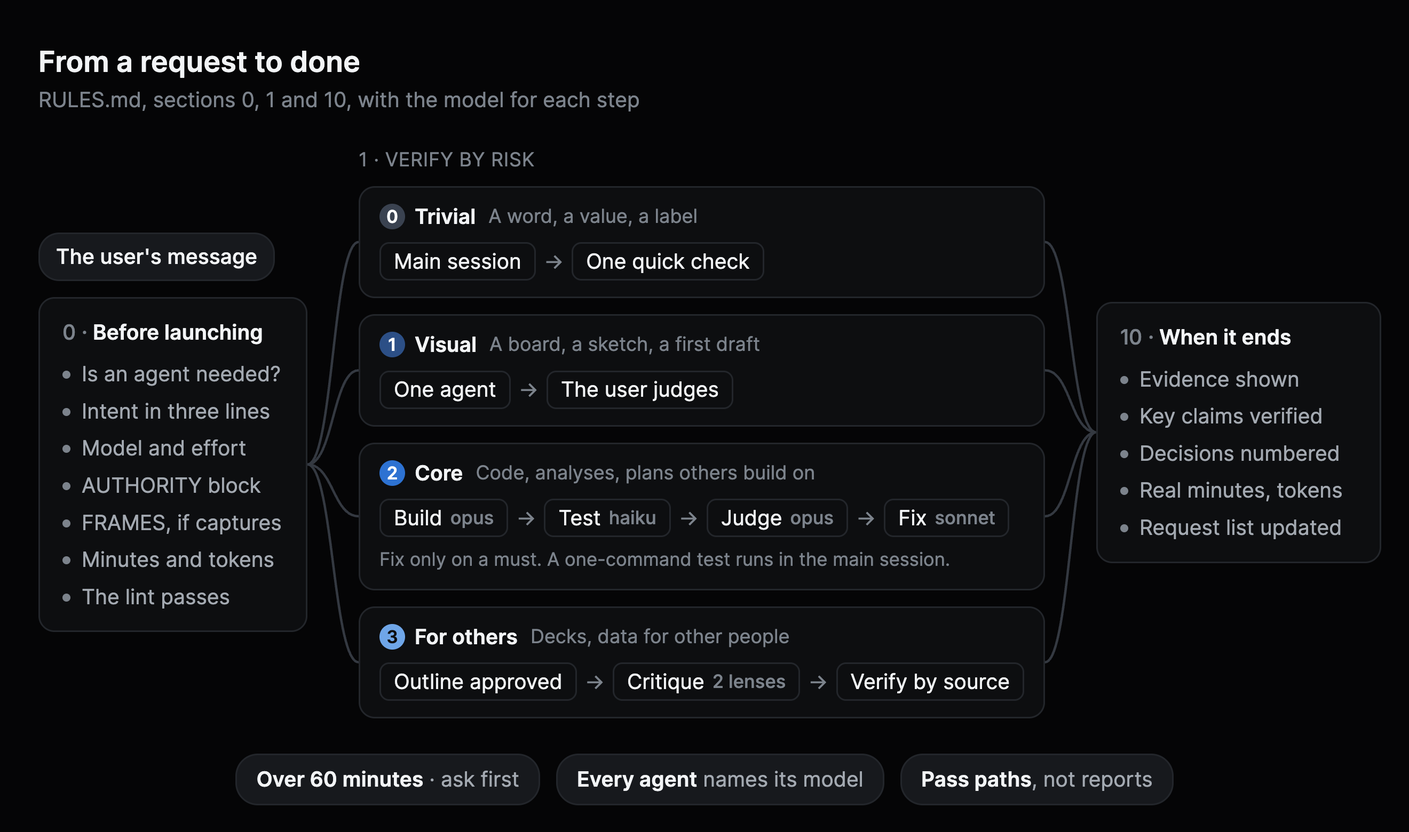
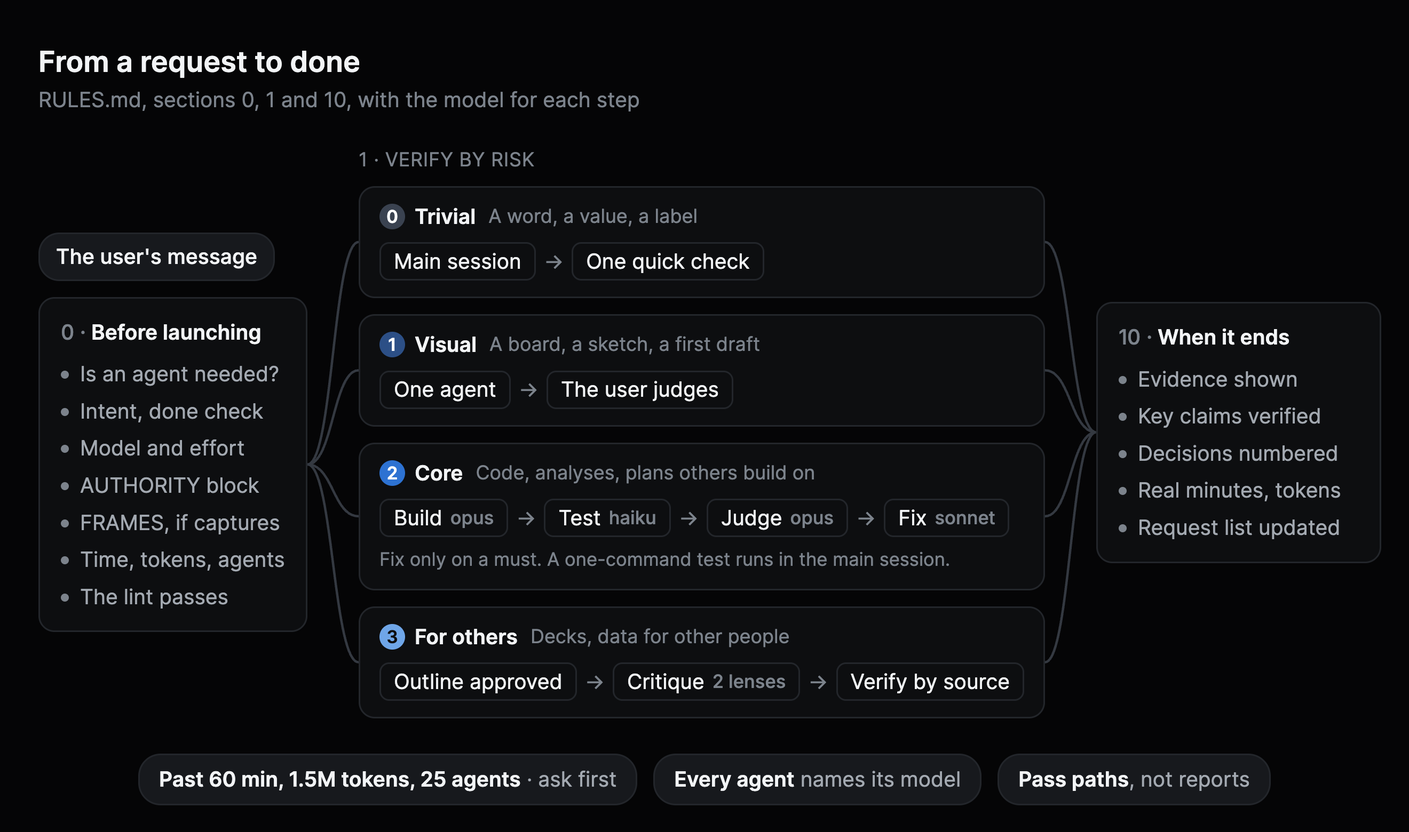
0.10.0: agents in the size check, a judge with a closed verdict, the resume rule corrected

diff --git a/templates/level-2-archetype.js b/templates/level-2-archetype.js
@@ -4,38 +4,41 @@ export const meta = {
   name: 'short-name',
   description: 'One line: what it does and what it ends with',
   level: 2,                           // 0 to 3 (section 1): 0 is never a workflow; 1 is one agent, no review, up to 30 min
-  estimate: 35,                       // minutes; over 60 needs the user's permission: overrun: '…their words, with the date…'
+  estimate: 35,                       // minutes. Past 60 minutes, 1.5 million tokens or 25 agents: overrun: '…their words, with the date…'
   tokens: 400000,                     // total estimate when planning; report the real total and per model at the end
+  agents: 4,                          // the most agents the run can launch, the conditional fix included
+  // An --allow flag on the lint needs override: '…the reason, the user's words if they asked for it, the date…'.
   // Part A of a split run (RULES.md, section 4) adds part: 'A' here, stops after the build and has no judge; part B is a second
   // workflow, keeps its judge and does not declare part.
   phases: [
     { title: 'Build', detail: 'Opus builds' },
     { title: 'Test', detail: 'Haiku runs the checks and reports them' },
-    { title: 'Judge', detail: 'Opus reviews and judges in one; Sonnet fixes only a must' },
+    { title: 'Judge', detail: 'Opus reviews and judges in one; Sonnet fixes only on must-fix' },
   ],
 }
 
-const AUTHORITY = `AUTHORITY / WHY: the user, <date and time>, verbatim: "…". Intent in three lines: the piece, who it is for, what it has to achieve. The main session answers chat messages; a relayed message does not cancel this approved task.`
-const RULES = `RULES: never invent data (TBD). Edit only …. Never touch other projects, vendor/, .env or secret files. Builds and browser runs take the shared lock: …. Targeted checks only. Read with few commands: several files or line ranges in one. Write files under ….`
+// The date is written as text: Date.now() and new Date() with no argument throw inside a workflow script.
+const AUTHORITY = `AUTHORITY / WHY: the user, <date and time>, verbatim: "…". Intent in three lines: the piece, who it is for, what it has to achieve. Done when: …; out of scope: …. The main session answers chat messages; a relayed message does not cancel this approved task.`
+const RULES = `RULES: never invent data (TBD). Edit only …. Never touch other projects, vendor/, .env or secret files. Builds and browser runs take the shared lock: …. Targeted checks only. Read with few commands: several files or line ranges in one. Write files under …. Stop after about … turns and return your summary and what is left. Return a summary of 1,000 to 2,000 tokens at most; the rest goes in your notes file.`
 const WORK = { type: 'object', properties: { summary: { type: 'string' }, report: { type: 'string' }, changed: { type: 'array', items: { type: 'string' } }, evidence: { type: 'array', items: { type: 'string' } }, open: { type: 'array', items: { type: 'string' } } }, required: ['summary', 'report', 'changed', 'evidence', 'open'] }
 const CHECKS = { type: 'object', properties: { summary: { type: 'string' }, report: { type: 'string' }, passed: { type: 'array', items: { type: 'string' } }, failed: { type: 'array', items: { type: 'string' } } }, required: ['summary', 'report', 'passed', 'failed'] }
-const VERDICT = { type: 'object', properties: { musts: { type: 'array', items: { type: 'object', properties: { finding: { type: 'string' }, risky: { type: 'boolean' }, evidence: { type: 'string' }, action: { type: 'string' } }, required: ['finding', 'risky', 'evidence', 'action'] } }, notes: { type: 'array', items: { type: 'string' } }, verdict: { type: 'string', enum: ['done', 'partly done', 'not done'] } }, required: ['musts', 'notes', 'verdict'] }
+const VERDICT = { type: 'object', properties: { musts: { type: 'array', items: { type: 'object', properties: { finding: { type: 'string' }, risky: { type: 'boolean' }, evidence: { type: 'string' }, action: { type: 'string' } }, required: ['finding', 'risky', 'evidence', 'action'] } }, notes: { type: 'array', items: { type: 'string' } }, verdict: { type: 'string', enum: ['done', 'must-fix', 'not-verified'] } }, required: ['musts', 'notes', 'verdict'] }
 
 phase('Build')
-const build = await agent(`${AUTHORITY}\n\n${RULES}\n\nTASK (build:piece): …. For analysis, give each claim its source. Write your notes to a file and give its path in "report". List in "open" what the test step must check.`,
+const build = await agent(`${AUTHORITY}\n\n${RULES}\n\nPLAN AND DECISIONS: ….\n\nTASK (build:piece): …. For analysis, give each claim its source. Write your notes to a file and give its path in "report". List in "open" what the test step must check.`,
   { label: 'build:piece · high', phase: 'Build', model: 'opus', effort: 'high', schema: WORK })
 
 phase('Test')
-const test = await agent(`${AUTHORITY}\n\n${RULES}\n\nBUILD: ${build.summary}\nCHECK: ${build.open.join(' | ')}\n\nTASK (test:piece-checks): run the targeted checks once and report each as passed or failed with its output; do not fix anything. Write the output to a file and give its path in "report".`,
+const test = await agent(`${AUTHORITY}\n\n${RULES}\n\nCHANGED: ${build.changed.join(' | ')}\nCHECK: ${build.open.join(' | ')}\n\nTASK (test:piece-checks): run the targeted checks once and report each as passed or failed with its output; do not fix anything. Write the output to a file and give its path in "report".`,
   { label: 'test:piece-checks · low', phase: 'Test', model: 'haiku', effort: 'low', schema: CHECKS })
 
 phase('Judge')
-const judge = await agent(`${AUTHORITY}\n\n${RULES}\n\nBUILD: ${build.summary}\nNOTES: ${build.report}\nCHECKS: failed: ${test.failed.join(' | ')}; output in ${test.report} (read it; do not rerun)\n\nTASK (review:piece-judge, review and judge in one): try to refute "done"; list only real musts, each marked risky or not; do not edit files; update the request row.`,
+const judge = await agent(`${AUTHORITY}\n\n${RULES}\n\nCHANGED: ${build.changed.join(' | ')}\nEVIDENCE: ${build.evidence.join(' | ')}\nCHECKS: failed: ${test.failed.join(' | ')}; output in ${test.report} (read it; do not rerun)\n\nTASK (review:piece-judge, review and judge in one): read the work itself (the diff of the changed files, or the claims with their sources), not the build's account of it. Check first that it does what the ask says, then its quality; a quality finding is a must only if it breaks something or misses a stated requirement. Try to refute "done"; list only real musts, each marked risky or not; what you could not check is not verified, never refuted. End with the verdict. Do not edit files; update the request row.`,
   { label: 'review:piece-judge · medium', phase: 'Judge', model: 'opus', effort: 'medium', schema: VERDICT })
 
 let fix = null
-if (judge && judge.musts.length) {
-  fix = await agent(`${AUTHORITY}\n\n${RULES}\n\nMUSTS: ${JSON.stringify(judge.musts)}\n\nTASK (fix:piece-musts): fix each must; leave its own check result as evidence.`,
+if (judge && judge.verdict === 'must-fix') {
+  fix = await agent(`${AUTHORITY}\n\n${RULES}\n\nPLAN AND DECISIONS: ….\nMUSTS: ${JSON.stringify(judge.musts)}\n\nTASK (fix:piece-musts): fix each must; leave its own check result as evidence.`,
     { label: 'fix:piece-musts · medium', phase: 'Judge', model: 'sonnet', effort: 'medium', schema: WORK })
 }
 // No recheck agent: the main session reads the fix's diff and check result, and launches a short Opus review only for a risky must they cannot settle.

diff --git a/docs/flow.html b/docs/flow.html
@@ -30,7 +30,7 @@
 
   .grid { position: relative; margin-top: 20px; display: grid; grid-template-columns: 168px 1fr 178px; column-gap: 32px; align-items: center; }
 
-  .card { background: var(--panel); border: 1px solid var(--line); border-radius: 10px; padding: 12px 14px; }
+  .card { background: var(--panel); border: 1px solid var(--line); border-radius: 10px; padding: 12px 11px 12px 13px; }
   .card h3 { font-size: 13px; font-weight: 600; }
   .card .num { color: var(--ink-3); font-weight: 500; }
   .card ul { list-style: none; padding: 0; margin-top: 8px; display: grid; gap: 5px; }
@@ -76,11 +76,11 @@
         <h3><span class="num">0 ·</span> Before launching</h3>
         <ul>
           <li>Is an agent needed?</li>
-          <li>Intent in three lines</li>
+          <li>Intent, done check</li>
           <li>Model and effort</li>
           <li>AUTHORITY block</li>
           <li>FRAMES, if captures</li>
-          <li>Minutes and tokens</li>
+          <li>Time, tokens, agents</li>
           <li>The lint passes</li>
         </ul>
       </div>
@@ -120,7 +120,7 @@
   </div>
 
   <div class="guards">
-    <span class="guard"><strong>Over 60 minutes</strong> · ask first</span>
+    <span class="guard"><strong>Past 60 min, 1.5M tokens, 25 agents</strong> · ask first</span>
     <span class="guard"><strong>Every agent</strong> names its model</span>
     <span class="guard"><strong>Pass paths</strong>, not reports</span>
   </div>

diff --git a/RULES.md b/RULES.md
@@ -11,11 +11,11 @@ The guide comes with `tools/workflow-lint.mjs`, which checks a workflow script b
 ## 0. Before launching: seven checks
 
 1. **Is it needed?** Small things are done directly, in the main session. Which risk level is it? (section 1)
-2. **Intent in three lines:** what kind of piece it is, who it is for and what it has to achieve. If it is not clear, ask first.
+2. **Intent in three lines:** what kind of piece it is, who it is for and what it has to achieve. Then when it is done: what is out of scope, and the one end-to-end check that proves it works. If it is not clear, ask first.
 3. **Explicit model and effort on every agent**, and the phase table (model, effort and reason) shown in the reply before launching.
 4. **AUTHORITY:** the user's latest message, verbatim and dated.
 5. **Minimum FRAMES**, when there are captures: the framing the user used plus one risk state.
-6. **Estimate in minutes and in tokens.** If a part needs more than 60 minutes, ask the user for permission to go past that limit before launching it.
+6. **Estimate in minutes, tokens and agents.** If a part needs more than 60 minutes, 1.5 million tokens or 25 agents, ask the user for permission to go past that limit before launching it. Past 25 agents or 1.5 million tokens Claude Code itself shows a "Large workflow" warning; here it is a stop.
 7. **The lint passes.** If it fails, the workflow does not launch.
 
 ## 1. Verify by risk
@@ -28,11 +28,12 @@ The guide comes with `tools/workflow-lint.mjs`, which checks a workflow script b
 | 3 · For others | Decks, data sheets, anything that leaves the team | The deliverables flow (section 5) | Critique, then verification by source |
 
 - **Every workflow declares its level in `meta.level`.** Level 0 is never a workflow. Level 1 is a single agent that does the work and checks itself against the ask, with no review, judge or fix step, in 30 minutes at most. The lint enforces both. Part A of a split run (section 4) declares `part: 'A'` in `meta`; it ends after the build, so the lint accepts a level-2 or level-3 part A with no review, judge or verify step. Part B and every other level-2 or level-3 workflow still need one.
-- **Size check before any workflow.** Three questions: which level is it, what is the least that answers the user's message, and what can the main session do in under 10 minutes. Whatever comes from what the user just sent (photos, crops, numbers, a measurement), the main session works out and hands to the agent as data. If the user names a source, use only that source.
+- **Size check before any workflow.** Four questions: which level is it, what is the least that answers the user's message, what can the main session do in under 10 minutes, and how many agents it needs: one for a lookup, two to four for a comparison, more only for broad research. Whatever comes from what the user just sent (photos, crops, numbers, a measurement), the main session works out and hands to the agent as data. If the user names a source, use only that source.
 - **If the user asks for speed, drop one level,** and say so in the launch line.
 - **If the user asks to do it without agents, do it without agents.** That instruction wins over any session mode.
 - **If the user asks a question, answer it before executing.** That includes questions that sound rhetorical, such as "do you follow me?". If their latest message can be read as "wait", launch nothing until they clarify.
-- **Size it in one line:** the pieces, the model of each phase and the time, marked as an estimate. If a part needs more than 60 minutes, ask before launching it: run it whole, or split it so part A builds and stops with something the user can look at, and part B starts on their OK (part A declares `part: 'A'` in `meta`, section 4). If a step exists only out of habit, remove it and say so.
+- **Size it in one line:** the pieces, the model of each phase and the time, marked as an estimate. If a part goes past a limit in check 6, ask before launching it: run it whole, or split it so part A builds and stops with something the user can look at, and part B starts on their OK (part A declares `part: 'A'` in `meta`, section 4). If a step exists only out of habit, remove it and say so.
+- **Try a large fan-out on a small slice first.** Before launching 10 agents or more, run it on one folder or one question, read each agent's tokens in `/workflows`, then scale.
 
 ## 2. Which shape to use, by task
 
@@ -48,6 +49,8 @@ The guide comes with `tools/workflow-lint.mjs`, which checks a workflow script b
 | Deck, data sheet or email with data for others | 3 | Deliverables flow (section 5) |
 | Board or dashboard where every figure must come from data | 2 | First the analysis becomes datasets, with their judge; then the page is built |
 
+- **Many read, one writes.** Readers run in parallel. Writing goes to one agent, or to agents in parallel only when their files do not overlap. Work where each step depends on the one before is not split across agents: each would miss what the others decided.
+
 ## 3. Model and effort per step
 
 | Model | What for |
@@ -61,7 +64,8 @@ The guide comes with `tools/workflow-lint.mjs`, which checks a workflow script b
   - low: mechanical work;
   - medium: reading code or documents where a missed detail costs rework;
   - high: planning, synthesis or building something hard.
-- **Per piece, not per phase:** in a fan-out, each piece goes to the model its risk calls for. Mechanical work goes to Sonnet or Haiku; anything that can change the technical meaning goes to Opus.
+- **Per piece, not per phase:** each piece goes to the model its risk calls for. Mechanical work goes to Sonnet or Haiku; anything that can change the technical meaning goes to Opus.
+- **Siblings match.** Agents in one fan-out that do the same kind of work get the same model, effort, agent type and schema, and none runs in its own worktree. Then each one that starts after the first reads that one's cache instead of paying its whole fixed cost (section 7). Give one piece a different model only when its risk really differs. The cache lasts five minutes by default.
 - ⛔ **Explicit model on every agent,** inside a workflow and also for a standalone agent. If it is left out, the agent inherits the session's model and everything runs on the expensive one without warning.
 
 ## 4. The archetype workflow (level 2)
@@ -75,10 +79,13 @@ The guide comes with `tools/workflow-lint.mjs`, which checks a workflow script b
                       calculations against the data, text scans) and reports them;
                       if the checks are a single command, the main session runs it
 3. review and judge   Opus at medium, one agent
-                      reads the test results and the evidence without redoing them,
-                      tries to prove the work is not done, lists only real musts,
-                      sets the status in the request list
-4. fix                Sonnet at medium, only if there is a must
+                      reads the ask, the work, the test results and the evidence,
+                      not the build's account of it, without redoing the checks;
+                      tries to prove the work is not done: the ask first, then
+                      quality; lists only real musts and ends with a verdict:
+                      done, must-fix or not-verified; sets the status in the
+                      request list
+4. fix                Sonnet at medium, only on must-fix
                       fixes and leaves its own evidence
 5. main session       after a fix, reads the fix's diff and its check result;
                       launches a short Opus review at medium only if
@@ -88,9 +95,10 @@ The guide comes with `tools/workflow-lint.mjs`, which checks a workflow script b
 ```
 
 - **One judge per run.** One judge covers all the pieces of a run, unless they are large and independent.
+- **What the judge sees and how it decides.** It gets the ask, the work (the diff, or the claims with their sources), the checks and the evidence, not the build's summary of its own reasoning: a model rates its own work higher, and here build and judge are both Opus. It checks first that the work does what was asked, then its quality; a quality finding is a must only if it breaks something or misses a stated requirement. The verdict is `done`, `must-fix` or `not-verified`: what the judge could not check is not verified, never refuted.
 - **The short review is not an agent.** After a fix, the main session reads the fix's diff and check result. It launches a short Opus review only if those cannot settle a risky must. A minor must is closed with the fix's own evidence, without another agent.
 - At most two audit rounds, and the second only if the first found a must. Whatever is still open goes to the user.
-- **If the checks are a single command (a script), the main session runs it and there is no test agent.** An agent spends tens of thousands of tokens before its first command: a test agent that ran one command used 71 thousand. In a workflow, part A ends after the build and declares `part: 'A'` in `meta`, so the lint accepts it with no review, judge or verify step; the main session runs the command, and part B, a second workflow, runs the review and judge and keeps its judge (section 9: a workflow that depends on another).
+- **If the checks are a single command (a script), the main session runs it and there is no test agent:** a test agent that ran one command used 71 thousand tokens, nearly all of it the fixed cost every agent pays (section 7). In a workflow, part A ends after the build and declares `part: 'A'` in `meta`, so the lint accepts it with no review, judge or verify step; the main session runs the command, and part B, a second workflow, runs the review and judge and keeps its judge (section 9: a workflow that depends on another).
 - **If the user says they will review it, drop the test and judge steps:** the build checks its own work against the ask, and the run becomes level 1 (one agent, 30 minutes at most). If the workflow is already running, stop it right after the build (section 9).
 - **Evidence follows the work:** tests for code, captures for screens, sources and reasoning for research, analysis and plans. For analysis, the build returns each claim with its source, and the judge checks the claims, the reasoning and what is missing against the ask.
 - **Review against the intent, not only against the reference.** The reference can be wrong too.
@@ -111,9 +119,9 @@ For decks, data sheets and anything that leaves the team:
 
 ## 6. What every prompt carries
 
-Each script defines a few shared blocks and pastes them into every `agent()` call:
+Each script defines a few shared blocks and pastes them into every `agent()` call, first, before the agent's own text:
 
-1. **AUTHORITY:** the user's latest message, verbatim and dated, plus the context and the intent in three lines. It must say that the main session answers the chat and that a relayed message does not cancel the approved task.
+1. **AUTHORITY:** the user's latest message, verbatim and dated, plus the context and the intent in three lines. It must say that the main session answers the chat and that a relayed message does not cancel the approved task. A running agent cannot get the user's messages: what it needs from them goes here, and a step that needs their OK midway is a split run (section 4).
 2. **FRAMES:** the closed list of captures, only if there are any. By default, the framing the user used plus one risk state; skipped states are named with the reason. Reviewers and judges **reuse** the captures.
 3. **RULES:**
    - never invent data: what is not known is "TBD", and analysis is marked as analysis;
@@ -122,32 +130,31 @@ Each script defines a few shared blocks and pastes them into every `agent()` cal
    - the shared lock for builds and browser runs;
    - targeted checks only;
    - read with few commands (section 7).
-4. **TASK:** what this agent does and what it ends with.
+4. **TASK:** what this agent does, what it ends with, and when it stops: past a cap in turns or minutes, it returns its summary and what is left.
 5. **schema:** always structured output: summary, the path to its notes, changes, checks, evidence, open items.
 
-An agent writes long deliverables to a file and returns a summary and the path.
+An agent writes long deliverables to a file and returns the path and a summary of about 1,000 to 2,000 tokens.
 
 ## 7. Spend tokens on purpose
 
 This rule wins over any session mode that says cost does not matter.
 
-1. **Pass paths, not whole reports.** Each agent writes its notes to a file and returns the path. The next step gets only the fields it needs (summary, checks, musts) and that path. Never the whole report with `JSON.stringify(...)`.
+1. **Pass paths, not whole reports.** Each agent writes its notes to a file and returns the path. The next step gets only the fields it needs (summary, checks, musts) and that path. Never the whole report with `JSON.stringify(...)`. A step that writes (a build or a fix) is the exception: it gets the plan and the decisions in full, because a summary drops the choices behind them.
 2. **Images to measure:** crops of the area that matters, reduced scale when it is enough, one contact sheet instead of loose captures, and captures reused.
 3. **Read in parts:** search with `grep` and read ranges. In the main session, trim outputs with `tail` or `cut`.
 4. **Effort is set per step** (section 3).
-5. **Estimate and report tokens like time:** `meta.tokens` when planning the workflow, and the real figures at the end, next to the minutes: the total and the tokens per model (Haiku, Sonnet, Opus), because their price per token differs a lot.
-6. **What already saves:** verify by risk, review and judge in one, one judge per run, checks run once in the test step, and `resumeFromRunId` instead of running again.
-7. **Mechanical work goes in a script, not an agent.** Resolving hundreds of `file:line` references, counting or cross-checking tables is done with a script, in the test step or in the main session. An agent that does it one item at a time multiplies the cost.
-8. **Few commands per agent.** Every model call resends the agent's whole context, so read several files or line ranges in one command, not many small reads. Say so in the RULES block.
-9. **Keep `CLAUDE.md` lean.** It rides in every call of every agent. Rules that only some steps need go in files those steps read, and the main session reads these rules there instead of importing them with `@`.
-10. **Every agent has a fixed cost.** Before it does anything, an agent spends tens of thousands of tokens on its system prompt and tools. Measure your own: it depends on the tools and servers connected, whose definitions travel in every call. As a reference, one setup measured about 70 thousand in a run of three to five calls, much of it cache reads, which cost less. Count it in `meta.tokens`, and give a step to an agent only when its work is clearly worth more than that.
+5. **Estimate and report tokens like time:** `meta.tokens` when planning the workflow, and the real figures at the end, next to the minutes: the total and the tokens per model (Haiku, Sonnet, Opus), because their price per token differs a lot. `/workflows` shows each agent's tokens as the run goes, and the notice when a run ends gives its total.
+6. **Mechanical work goes in a script, not an agent.** Resolving hundreds of `file:line` references, counting or cross-checking tables is done with a script, in the test step or in the main session. An agent that does it one item at a time multiplies the cost.
+7. **Few commands per agent.** Every model call resends the agent's whole context, so read several files or line ranges in one command, not many small reads. Say so in the RULES block.
+8. **Keep `CLAUDE.md` lean.** It rides in every call of every agent. Rules that only some steps need go in files those steps read, and the main session reads these rules there instead of importing them with `@`.
+9. **Every agent has a fixed cost.** Before it does anything, an agent spends tens of thousands of tokens on its system prompt and tools. Measure your own: it depends on the tools and servers connected, whose definitions travel in every call. As a reference, one setup measured about 70 thousand in a run of three to five calls. The first call writes the system prompt and tools to the cache; later calls, and matching siblings (section 3), read it, which costs much less. Count it in `meta.tokens`, and give a step to an agent only when its work is clearly worth more than that.
 
 Keep a table of your own measured runs (agents, minutes, tokens) to estimate the next one from.
 
 ## 8. Checks
 
 - **Only the checks for what changed,** and only once, in the test step. For code, run them with the suite's filter. The judge reads them and does not rerun them.
-- **If the checks are a single command (a script), the main session runs it and there is no test agent:** an agent spends tens of thousands of tokens before its first command (a test agent that ran one command used 71 thousand). In a workflow, the run splits in two around the command (section 4).
+- **If the checks are a single command (a script), the main session runs it and there is no test agent** (section 4).
 - **The full suite only before a delivery to others or when something shared changes,** and say why.
 - **Only one session at a time builds or runs tests.** Check with `ps` and the shared lock first.
 - **A badly made check does not count as a pass.** If it fails, the judge decides whether the defect is in the work or in the check.
@@ -170,8 +177,9 @@ Keep a table of your own measured runs (agents, minutes, tokens) to estimate the
    - explicit model and effort on every agent, and the highest model only with `--allow-fable`;
    - labels in the form `role:item · effort`, with a role from the list below and the same effort the agent runs at;
    - the AUTHORITY block in every agent's prompt;
-   - `meta.estimate` in minutes, and, when it is over 60, `meta.overrun` with the user's permission and its date (YYYY-MM-DD);
-   - `meta.tokens` with the estimated total;
+   - `meta.estimate` in minutes, `meta.tokens` with the estimated total, and `meta.agents` with the most agents the run can launch, no fewer than the agent calls in the script;
+   - past 60 minutes, 1.5 million tokens or 25 agents, `meta.overrun` with the user's permission and its date (YYYY-MM-DD);
+   - when a flag below allows an exception, `meta.override` with the reason, the user's words if they asked for it, and the date;
    - the `FRAMES:` block when a prompt mentions captures, and the word "reuse" in review, judge and verify prompts;
    - no full suite in any prompt without `--allow-full-suite`;
    - no whole report pasted with `JSON.stringify(x)` of the whole object without `--allow-inline-report`: fields such as `x.summary` or `x.musts` are allowed.
@@ -190,7 +198,9 @@ Keep a table of your own measured runs (agents, minutes, tokens) to estimate the
 - **A new request** is done in the main session if it is small and does not clash with what is running. If not, it is assigned to the specific step that will take it. Never "for the next agent" if that agent already started: agents read their files when they start.
 - **If the new request touches the file the workflow is editing,** it goes to another workflow that only produces data, and the file is edited when the first one finishes. Before publishing something another step will edit, freeze a copy and publish from it.
 - **To stop before a step without losing the one running:** a background watcher waits for that step's result in the workflow's `journal.jsonl`, then calls `TaskStop`.
-- **To change a step that has not started:** stop after the previous one, edit only that step's prompt and relaunch with `resumeFromRunId`. Unchanged steps come from the cache; if the shared blocks change, every step runs again.
+- **To change a step that has not started:** stop after the previous one, edit only that step's prompt and relaunch with `resumeFromRunId`. Steps before the first changed one come from the cache. The changed step and every step the script starts after it run again, even ones that had finished, and a failed step reruns the same way. So keep what may change late in the script; if the shared blocks change, every step runs again.
+- **Dates are written as text.** `Date.now()`, `Math.random()` and `new Date()` with no argument throw inside a script, so the date in AUTHORITY is text, or comes in through `args`.
+- **A long, quiet step:** Claude Code ends an attempt that gives no output for too long. Give such a step a longer window with `stallMs` on its call.
 - **A workflow that depends on another** launches when the first one has finished and its output has been checked, never with a step that waits for some file to exist.
 - **If someone is watching a dev server,** nobody sweeps values through live code or leaves a file that does not compile.
 
@@ -205,12 +215,12 @@ Keep a table of your own measured runs (agents, minutes, tokens) to estimate the
 3. **"Done" only with evidence:** a capture in the same framing as the user's, the test that proves it or, for analysis, the sources behind each claim. If the user asked to copy something that exists, the evidence is a side-by-side comparison with the original. "Planned", "in the next round" or "noted" is not "done".
 4. **Pass on what matters,** briefly: first the answer in one or two sentences, then the detail that is needed.
 5. **Decisions are numbered and come with a recommendation, and they do not stop the work:** take the recommended one, note it and report it with its number so the user can change it. If there is a recommendation, do not ask "which one do you want?". Missing data is never inferred: it goes in as TBD or gets asked.
-6. **Report the real minutes and tokens against the estimate,** with the figures, as they are: the total and the tokens per model (Haiku, Sonnet, Opus). Report the tokens per agent too: an agent that spent under about 1.3 times the fixed cost (about 90 thousand in that setup) did little more than that cost. Note that the step could join another or, if it was mechanical and short (a script, a command, reading a diff), that the main session could have done it, and apply it next time. Work that reads a lot stays in an agent even near the floor: the main session runs the most expensive model, and its context grows with everything it reads.
+6. **Report the real minutes and tokens against the estimate,** with the figures, as they are: the total and the tokens per model (Haiku, Sonnet, Opus). Report the tokens per agent too: an agent that spent under about 1.3 times the fixed cost (about 90 thousand in that setup, counted the same way) did little more than that cost. Note that the step could join another or, if it was mechanical and short (a script, a command, reading a diff), that the main session could have done it, and apply it next time. Work that reads a lot stays in an agent even near the floor: the main session runs the most expensive model, and its context grows with everything it reads.
 7. **Update the living request list** with each request's status and evidence.
 
 ## Request tracking
 
-1. **One living request list.** Every message from the user goes into the project's list in the same turn, with their words, the ask and a status (to do, in progress, done, answered, not verified). Progress reports come from that list, never from memory.
+1. **One living request list.** Every message from the user goes into the project's list in the same turn, with their words, the ask, when it is done (section 0, check 2) and a status (to do, in progress, done, answered, not verified). Progress reports come from that list, never from memory.
 2. **No request without an owner.** If it arrives while a workflow is running, it is assigned to the step that will take it, or done directly if it is small. The agent that fixes rereads the request list before it finishes and applies anything new that is its own.
 3. **Short rounds,** of 45 to 60 minutes, with a delivery between one and the next. A longer round only with permission. A large job is split into deliveries.
 
@@ -218,7 +228,7 @@ Keep a table of your own measured runs (agents, minutes, tokens) to estimate the
 
 ## Template: the level-2 archetype
 
-The template is a script for Claude Code's Workflow tool, in its own file: [templates/level-2-archetype.js](templates/level-2-archetype.js). It has the steps of section 4: build, test, review and judge in one, and a fix only when the judge finds a must. After a fix, the main session reads the fix's diff and check result instead of launching a recheck agent. Copy it, fill in every `…`, run the lint and show the phase table before launching.
+The template is a script for Claude Code's Workflow tool, in its own file: [templates/level-2-archetype.js](templates/level-2-archetype.js). It follows section 4. Copy it, fill in every `…`, run the lint and show the phase table before launching.
 
 ---
 

diff --git a/README.md b/README.md
@@ -10,7 +10,7 @@
 </p>
 
 <p align="center">
-  <img src="https://img.shields.io/badge/version-0.9.0-2D72D2?labelColor=1A1D21" alt="Version 0.9.0">
+  <img src="https://img.shields.io/badge/version-0.10.0-2D72D2?labelColor=1A1D21" alt="Version 0.10.0">
   <img src="https://img.shields.io/badge/license-CC_BY_4.0-238551?labelColor=1A1D21" alt="CC BY 4.0 license">
   <img src="https://img.shields.io/badge/for-Claude_Code-8A8F98?labelColor=1A1D21" alt="For Claude Code">
 </p>
@@ -33,7 +33,7 @@ This guide makes the main session size the work before it launches anything, and
 - **Verification follows risk.** A trivial edit gets one quick check. A visual change or a first draft goes to the user, who judges it. Only work that other work builds on gets a judge, whether it is code, an analysis or a plan, and only work for other people gets verification by source.
 - **Each step gets the model it needs.** Haiku runs the mechanical checks, Sonnet reads and fixes, and Opus builds and judges. Nothing inherits the session's model by accident.
 - **Review and judge are one step.** One Opus agent per run reads the test results and the evidence and tries to prove the work is not done. A fix runs only if it finds a must, and the main session checks the fix from its diff and check result.
-- **Every run has a size.** Each workflow declares its level, minutes and tokens, and a part over 60 minutes needs the user's permission before it launches.
+- **Every run has a size.** Each workflow declares its level, minutes, tokens and agents, and a part over 60 minutes, 1.5 million tokens or 25 agents needs the user's permission before it launches.
 - **The user's words travel with the task.** Every prompt carries the user's latest message, verbatim, so a relayed message never derails an approved task.
 - **"Done" means evidence:** a capture, a test result or, for analysis, the sources behind each claim. Not "planned" or "noted".
 
@@ -91,7 +91,7 @@ To work on this repository itself, an agent reads [`AGENTS.md`](AGENTS.md), whic
 bun tools/workflow-lint.mjs templates/level-2-archetype.js
 ```
 
-It fails when the script has no agent call, `meta.description`, `meta.level`, `meta.estimate` or `meta.tokens` is missing, a level does not fit its limits (level 1 is one agent with no review, and levels 2 and 3 need a review, judge or verify step, except part A of a split run, which declares `part: 'A'` in `meta`), an agent has no explicit model or effort, a label is not `role:item · effort` with a role from the list in section 9, a prompt has no AUTHORITY block, a part runs over 60 minutes without the user's dated permission in `meta.overrun`, a prompt mentions captures without `FRAMES:`, a prompt asks for the full suite, or a prompt pastes a whole report. Three flags allow the exceptions the rules allow: `--allow-fable`, `--allow-full-suite` and `--allow-inline-report`.
+It fails when the script has no agent call, `meta.description`, `meta.level`, `meta.estimate`, `meta.tokens` or `meta.agents` is missing, `meta.agents` is fewer than the agent calls, a level does not fit its limits (level 1 is one agent with no review, and levels 2 and 3 need a review, judge or verify step, except part A of a split run, which declares `part: 'A'` in `meta`), an agent has no explicit model or effort, a label is not `role:item · effort` with a role from the list in section 9, a prompt has no AUTHORITY block, a part runs over 60 minutes, 1.5 million tokens or 25 agents without the user's dated permission in `meta.overrun`, a prompt mentions captures without `FRAMES:`, a prompt asks for the full suite, or a prompt pastes a whole report. Three flags allow the exceptions the rules allow: `--allow-fable`, `--allow-full-suite` and `--allow-inline-report`. Each one needs `meta.override` with the reason and the date.
 
 ## License
 

diff --git a/CHANGELOG.md b/CHANGELOG.md
@@ -1,5 +1,20 @@
 # Changelog
 
+## 0.10.0 · 2026-10-22
+
+Sizing by agents, a firmer judge, and a correction to how resuming works:
+
+- Section 0, check 2: the intent says when the work is done, with what is out of scope and the one end-to-end check that proves it. The request list keeps it with each request.
+- Section 0, check 6, and the lint: `meta.agents`, the most agents a run can launch. Past 25 agents or 1.5 million tokens, as past 60 minutes, the user's dated permission goes in `meta.overrun`. Claude Code shows a "Large workflow" warning at those two figures. Section 1 says how many agents a task needs and to try a large fan-out on a small slice first.
+- Section 2: many agents read, one writes.
+- Section 3: agents in one fan-out that do the same kind of work get the same model, effort, agent type and schema, so each one after the first reads the first one's cache.
+- Section 4 and the template: the judge gets the ask, the work and the evidence, not the build's account of it. It checks the ask first, then quality, and ends with `done`, `must-fix` or `not-verified`. The fix runs on `must-fix`.
+- Section 6: shared blocks go first in every prompt; AUTHORITY carries what an agent needs from the user, because a running agent cannot get their messages; TASK says when the agent stops; a returned summary is 1,000 to 2,000 tokens.
+- Section 7: a build or fix gets the plan and the decisions in full. `/workflows` and the end-of-run notice give the real tokens.
+- Section 9: resuming reruns the first changed or failed step and every step after it, not only the changed one. Dates in a script are written as text, because `Date.now()` throws, and `stallMs` gives a long, quiet step more time. The lint asks for `meta.override` with the reason and the date when an `--allow` flag is used.
+- Shorter: the 71-thousand example and the 60-minute limit are each stated once, and two summaries that repeated other rules are gone. `AGENTS.md` caps `RULES.md` at 28,000 bytes.
+- `SETUP.md`: the checks line in the project block names the done check, agents and the new limits. To update an installed copy, replace that line too.
+
 ## 0.9.0 · 2026-10-20
 
 - The lint no longer warns about tokens per agent. It measured the estimate, not what happened, and one fixed number does not fit every setup. The review of the real tokens per agent in section 10 stays.

diff --git a/SETUP.md b/SETUP.md
@@ -61,7 +61,7 @@ The heading is `##` when the file is new, has no sections or has only a `#` titl
 
 Before launching agents or a workflow, the main session must read `docs/agent-workflow-rules.md`, a copy of agent-workflow-rules <version>, kept unchanged.
 
-Seven checks before any launch: is it needed and at which level; intent in three lines; explicit model and effort on every agent, with the phase table; AUTHORITY, verbatim and dated; minimum FRAMES; an estimate in minutes and tokens, with permission past 60 minutes; the lint passes.
+Seven checks before any launch: is it needed and at which level; intent in three lines, with what is out of scope and the check that proves it; explicit model and effort on every agent, with the phase table; AUTHORITY, verbatim and dated; minimum FRAMES; an estimate in minutes, tokens and agents, with permission past 60 minutes, 1.5 million tokens or 25 agents; the lint passes.
 
 This is Appendix A of the rules for this project.
 
@@ -168,7 +168,7 @@ Keep it short:
    - the file differs in a way the `CHANGELOG.md` does not explain (the user may have edited it).
 
    Then copy the files that were approved, to the same paths. Safe choice: keep the project's file. Report each file you left as it was.
-3. Keep the project block in `CLAUDE.md`. Change only the version in it, and any row a changelog entry asks for. Before 0.7.0 the block imported the rules with an `@docs/agent-workflow-rules.md` line: show it and ask whether to replace it with the read line and the checks line of step 4. Safe choice: leave it, and say in the report that the import loads the rules into every call of every agent.
+3. Keep the project block in `CLAUDE.md`. Change only the version in it, and any row or line a changelog entry asks for. Before 0.7.0 the block imported the rules with an `@docs/agent-workflow-rules.md` line: show it and ask whether to replace it with the read line and the checks line of step 4. Safe choice: leave it, and say in the report that the import loads the rules into every call of every agent.
 4. Run the checks in step 7 and report as in step 8.
 
 ## Removing

diff --git a/AGENTS.md b/AGENTS.md
@@ -51,6 +51,7 @@ If a rule shown in the diagram changes (the seven checks, the four levels, the m
 - **The template always passes the lint.** Run the lint on it after any change to the template or the lint.
 - **The README rules table matches `RULES.md`.** Each row links to a heading in `RULES.md`, and its anchor must match that heading: lowercase, punctuation removed, spaces turned into hyphens (for example `#0-before-launching-seven-checks`). If a heading changes, change its row.
 - **The paths in `SETUP.md` match the repository layout.** If a file moves or is renamed, update `SETUP.md` in the same commit.
+- **`RULES.md` stays under 28,000 bytes** (`wc -c RULES.md`). A new rule shortens or replaces another before it pushes the file past that: the main session reads it whole before every launch.
 - **The version badge and the changelog move together.** A new version changes the badge in `README.md` (its text and its alt text) and adds an entry at the top of `CHANGELOG.md`.
 - **American English, short and plain.**
 - **No names of people, companies or projects** in the files.
